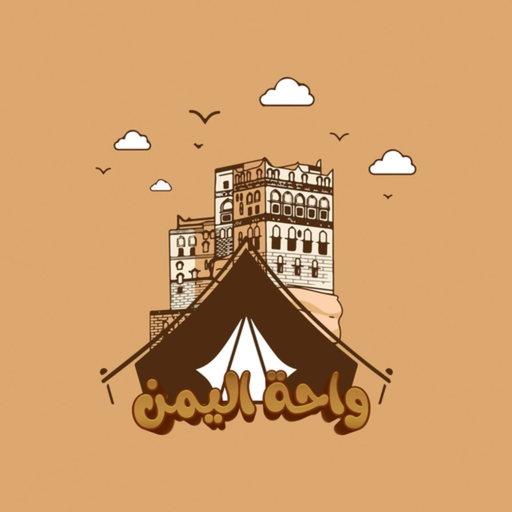
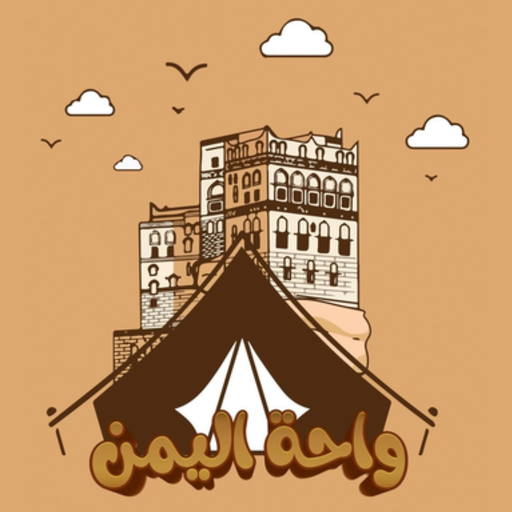
Add files via upload

diff --git a/index.html b/index.html
@@ -44,7 +44,7 @@ th,td{padding:8px 6px;border-bottom:1px solid var(--line);text-align:right;white
 .modal{position:fixed;inset:0;background:#0007;display:flex;align-items:flex-end;justify-content:center;z-index:9}
 .modal>div{background:var(--card);width:100%;max-width:520px;border-radius:18px 18px 0 0;padding:16px;max-height:92vh;overflow:auto}
 .modal label{display:block;font-size:12px;color:var(--muted);margin:8px 0 3px}
-.hide{display:none}.grow{flex:1;min-width:0}h2{font-size:14px;margin:12px 0 6px}body{min-height:100vh}body::before{content:"";position:fixed;inset:0;background:url(icon-512.png) center 38%/min(88vw,480px) no-repeat;opacity:.22;pointer-events:none;z-index:0}@media print{body>*:not(#rpt){display:none!important}body::before{display:none}#rpt{position:static!important;overflow:visible!important;background:#fff!important}.noprint{display:none!important}}.leaflet-container{font:inherit}.leaflet-popup-content{direction:rtl;text-align:right}
+.hide{display:none}.grow{flex:1;min-width:0}h2{font-size:14px;margin:12px 0 6px}body{min-height:100vh}body::before{content:"";position:fixed;inset:0;background:url(icon-512.png?v=4) center 38%/min(88vw,480px) no-repeat;opacity:.22;pointer-events:none;z-index:0}@media print{body>*:not(#rpt){display:none!important}body::before{display:none}#rpt{position:static!important;overflow:visible!important;background:#fff!important}.noprint{display:none!important}}.leaflet-container{font:inherit}.leaflet-popup-content{direction:rtl;text-align:right}
 .ys-bike-marker{background:transparent!important;border:0!important;overflow:visible!important}.ys-bike-marker div{filter:drop-shadow(0 2px 3px rgba(0,0,0,.35))}
 .ys-bike-marker{background:transparent!important;border:0!important;overflow:visible!important}
 .ys-bike-pin{position:relative;border-radius:50%;display:grid;place-items:center;filter:drop-shadow(0 5px 9px rgba(25,15,8,.35))}
@@ -105,16 +105,16 @@ function flash(t, ok) {
   setTimeout(() => { if (m) m.className = 'hide'; }, 4000);
 }
 const roleLabel = u => u.role === 'manager' ? ({callcenter_followup:'متابعة كول سنتر',supervisor:'مشرف',kitchen:'كنترول المطبخ',manager:'مدير'}[u.workflow_role] || u.job_title || 'مدير') : ({ driver: 'طيار', admin: 'مالك النظام' }[u.role] || '');
-const shell = (inner) => { const canSwitch = isOwner() || permittedBranches().length > 1; return `<header><img src="icon-192.png" alt="" style="width:46px;height:46px;border-radius:12px"><div style="flex:1;min-width:0"><small style="opacity:.8">واحة اليمن — متابعة الدليفري</small><div id="hname" style="font-size:18px;font-weight:700;line-height:1.3">${esc(me.full_name)}</div><small id="hmeta">${esc(roleLabel(me))} · كود ${esc(me.employee_code)}</small><div style="margin-top:4px;font-size:12px;font-weight:700;color:#ffe0a3">📍 الفرع الحالي: <span id="activeBranchLabel">${esc(activeBranchTitle())}</span></div></div>${canSwitch ? '<button id="branchSwitch" style="white-space:nowrap">تغيير الفرع</button>' : ''}<button id="out">خروج</button></header><div id="flash" class="hide"></div><div id="delayNotices"></div>${inner}`; };
+const shell = (inner) => { const canSwitch = isOwner() || permittedBranches().length > 1; return `<header><img src="icon-192.png?v=4" alt="شعار مطاعم واحة اليمن" style="width:46px;height:46px;border-radius:12px"><div style="flex:1;min-width:0"><small style="opacity:.8">واحة اليمن — متابعة الدليفري</small><div id="hname" style="font-size:18px;font-weight:700;line-height:1.3">${esc(me.full_name)}</div><small id="hmeta">${esc(roleLabel(me))} · كود ${esc(me.employee_code)}</small><div style="margin-top:4px;font-size:12px;font-weight:700;color:#ffe0a3">📍 الفرع الحالي: <span id="activeBranchLabel">${esc(activeBranchTitle())}</span></div></div>${canSwitch ? '<button id="branchSwitch" style="white-space:nowrap">تغيير الفرع</button>' : ''}<button id="out">خروج</button></header><div id="flash" class="hide"></div><div id="delayNotices"></div>${inner}`; };
 
 /* ---------- الدخول ---------- */
 function reconnectView(message='الاتصال بالخادم غير متاح حاليًا. بيانات الدخول محفوظة؛ أعد المحاولة عند رجوع الإنترنت.') {
-  $('app').innerHTML = `<div class="card" style="max-width:420px;margin:40px auto;text-align:center"><img src="icon-192.png" alt="" style="width:90px;height:90px;border-radius:18px"><h1 style="font-size:18px">تعذر الاتصال</h1><p class="meta">${esc(message)}</p><button class="p big" id="retryBoot">إعادة المحاولة</button><button id="retryLogout" style="margin-top:10px">تسجيل الخروج</button></div>`;
+  $('app').innerHTML = `<div class="card" style="max-width:420px;margin:40px auto;text-align:center"><img src="icon-192.png?v=4" alt="شعار مطاعم واحة اليمن" style="width:90px;height:90px;border-radius:18px"><h1 style="font-size:18px">تعذر الاتصال</h1><p class="meta">${esc(message)}</p><button class="p big" id="retryBoot">إعادة المحاولة</button><button id="retryLogout" style="margin-top:10px">تسجيل الخروج</button></div>`;
   $('retryBoot').onclick=()=>boot();
   $('retryLogout').onclick=async()=>{await sb.auth.signOut();me=null;selectedBranch=null;loginView();};
 }
 function loginView(err) {
-  $('app').innerHTML = `<div class="card" style="max-width:380px;margin:40px auto"><img src="icon-192.png" alt="" style="width:110px;height:110px;border-radius:22px;display:block;margin:0 auto 10px"><h1 style="font-size:18px;text-align:center">تسجيل الدخول</h1>
+  $('app').innerHTML = `<div class="card" style="max-width:380px;margin:40px auto"><img src="icon-192.png?v=4" alt="شعار مطاعم واحة اليمن" style="width:110px;height:110px;border-radius:22px;display:block;margin:0 auto 10px"><h1 style="font-size:18px;text-align:center">تسجيل الدخول</h1>
     <div class="msg e ${err ? '' : 'hide'}">${esc(err)}</div>
     <label>البريد الإلكتروني</label><input id="em" type="email" autocomplete="username">
     <label style="margin-top:8px;display:block">كلمة المرور</label><input id="pw" type="password" autocomplete="current-password">
@@ -216,7 +216,7 @@ async function ownerBranchPicker(){
   const {data,error}=await safeRpc('dlv_list_branches');
   if(error){ console.warn('تعذر تحميل قائمة الفروع:',error.message); return reconnectView('تعذر تحميل قائمة الفروع الآن. جلسة الدخول محفوظة؛ أعد المحاولة.'); }
   const branches=data||[];
-  $('app').innerHTML=`<div class="card" style="max-width:520px;margin:35px auto;text-align:center;padding:22px"><img src="icon-192.png" style="width:90px;height:90px;border-radius:18px"><h1 style="font-size:20px">اختيار الفرع</h1><p class="meta">أهلاً ${esc(me.full_name)} — اختر نطاق لوحة المتابعة</p><div class="grid" style="grid-template-columns:1fr;gap:10px">${branches.map(b=>`<button class="p big" data-branch="${b.id}">${esc(b.name)}</button>`).join('')}<button class="g big" data-branch="all">عرض الفرعين معًا</button></div><button id="pickOut" style="margin-top:10px">تسجيل الخروج</button></div>`;
+  $('app').innerHTML=`<div class="card" style="max-width:520px;margin:35px auto;text-align:center;padding:22px"><img src="icon-192.png?v=4" style="width:90px;height:90px;border-radius:18px"><h1 style="font-size:20px">اختيار الفرع</h1><p class="meta">أهلاً ${esc(me.full_name)} — اختر نطاق لوحة المتابعة</p><div class="grid" style="grid-template-columns:1fr;gap:10px">${branches.map(b=>`<button class="p big" data-branch="${b.id}">${esc(b.name)}</button>`).join('')}<button class="g big" data-branch="all">عرض الفرعين معًا</button></div><button id="pickOut" style="margin-top:10px">تسجيل الخروج</button></div>`;
   document.querySelectorAll('[data-branch]').forEach(b=>b.onclick=async()=>{selectedBranch=b.dataset.branch==='all'?null:Number(b.dataset.branch); await enterOwnerDashboard();});
   $('pickOut').onclick=async()=>{await sb.auth.signOut();me=null;selectedBranch=null;loginView();};
 }
@@ -1023,7 +1023,7 @@ async function loadCodes() {
 /* ---------- صفحة العميل: تتبع الطلب بالكود (من غير دخول) ---------- */
 function trackView(code0) {
   document.title = 'تتبع طلبك — واحة اليمن';
-  $('app').innerHTML = '<header><img src="icon-192.png" alt="" style="width:46px;height:46px;border-radius:12px"><div style="flex:1"><div style="font-size:20px;font-weight:700">تتبع طلبك</div><small>واحة اليمن</small></div></header>' +
+  $('app').innerHTML = '<header><img src="icon-192.png?v=4" alt="شعار مطاعم واحة اليمن" style="width:46px;height:46px;border-radius:12px"><div style="flex:1"><div style="font-size:20px;font-weight:700">تتبع طلبك</div><small>واحة اليمن</small></div></header>' +
     '<div class="card"><label style="font-size:12px">كود المتابعة</label><div class="row"><input id="tc" dir="ltr" style="flex:1;text-transform:uppercase" placeholder="مثال: 7K2M9QXA" value="' + esc((code0 || '').toUpperCase()) + '"><button class="p" id="tg">تتبّع</button></div></div>' +
     '<div id="tinfo"></div><div id="tmap" class="card" style="height:320px;display:none;padding:0;overflow:hidden"></div>';
   let tmr, mapT, mk, lastTrackPos = null;
